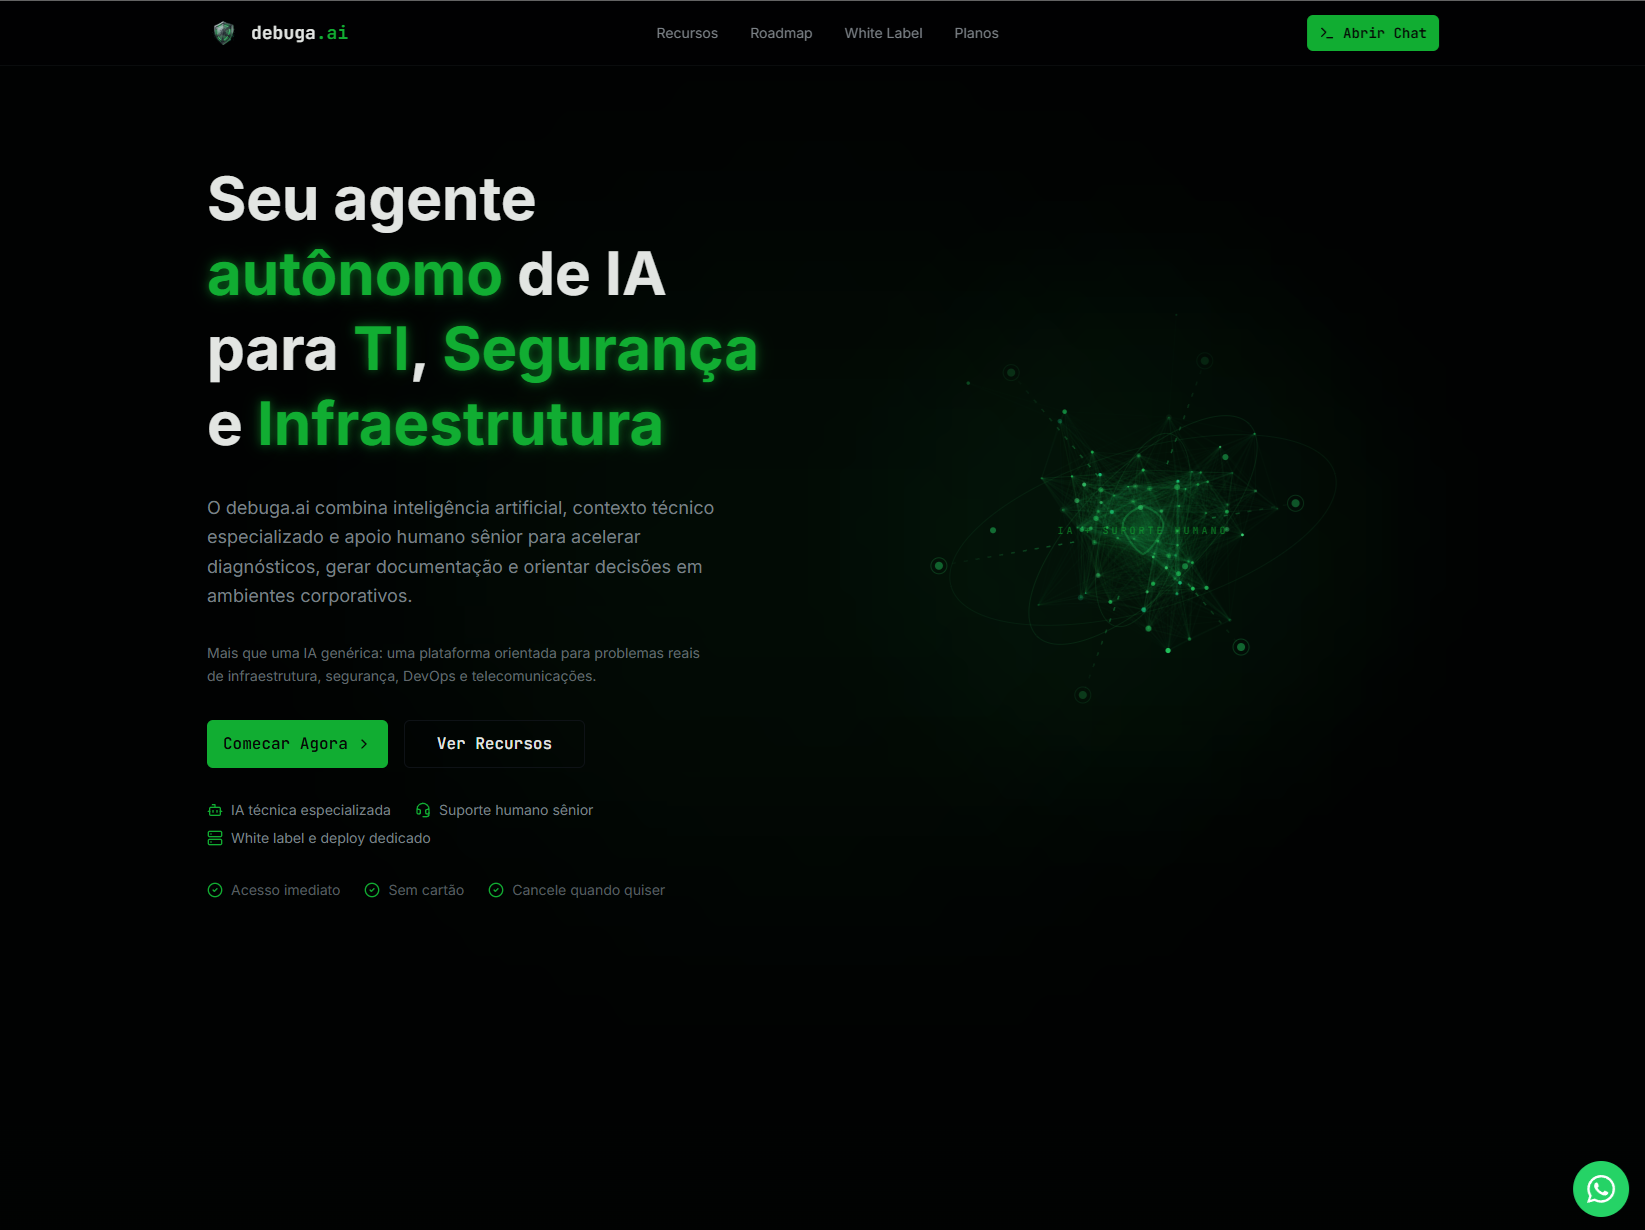
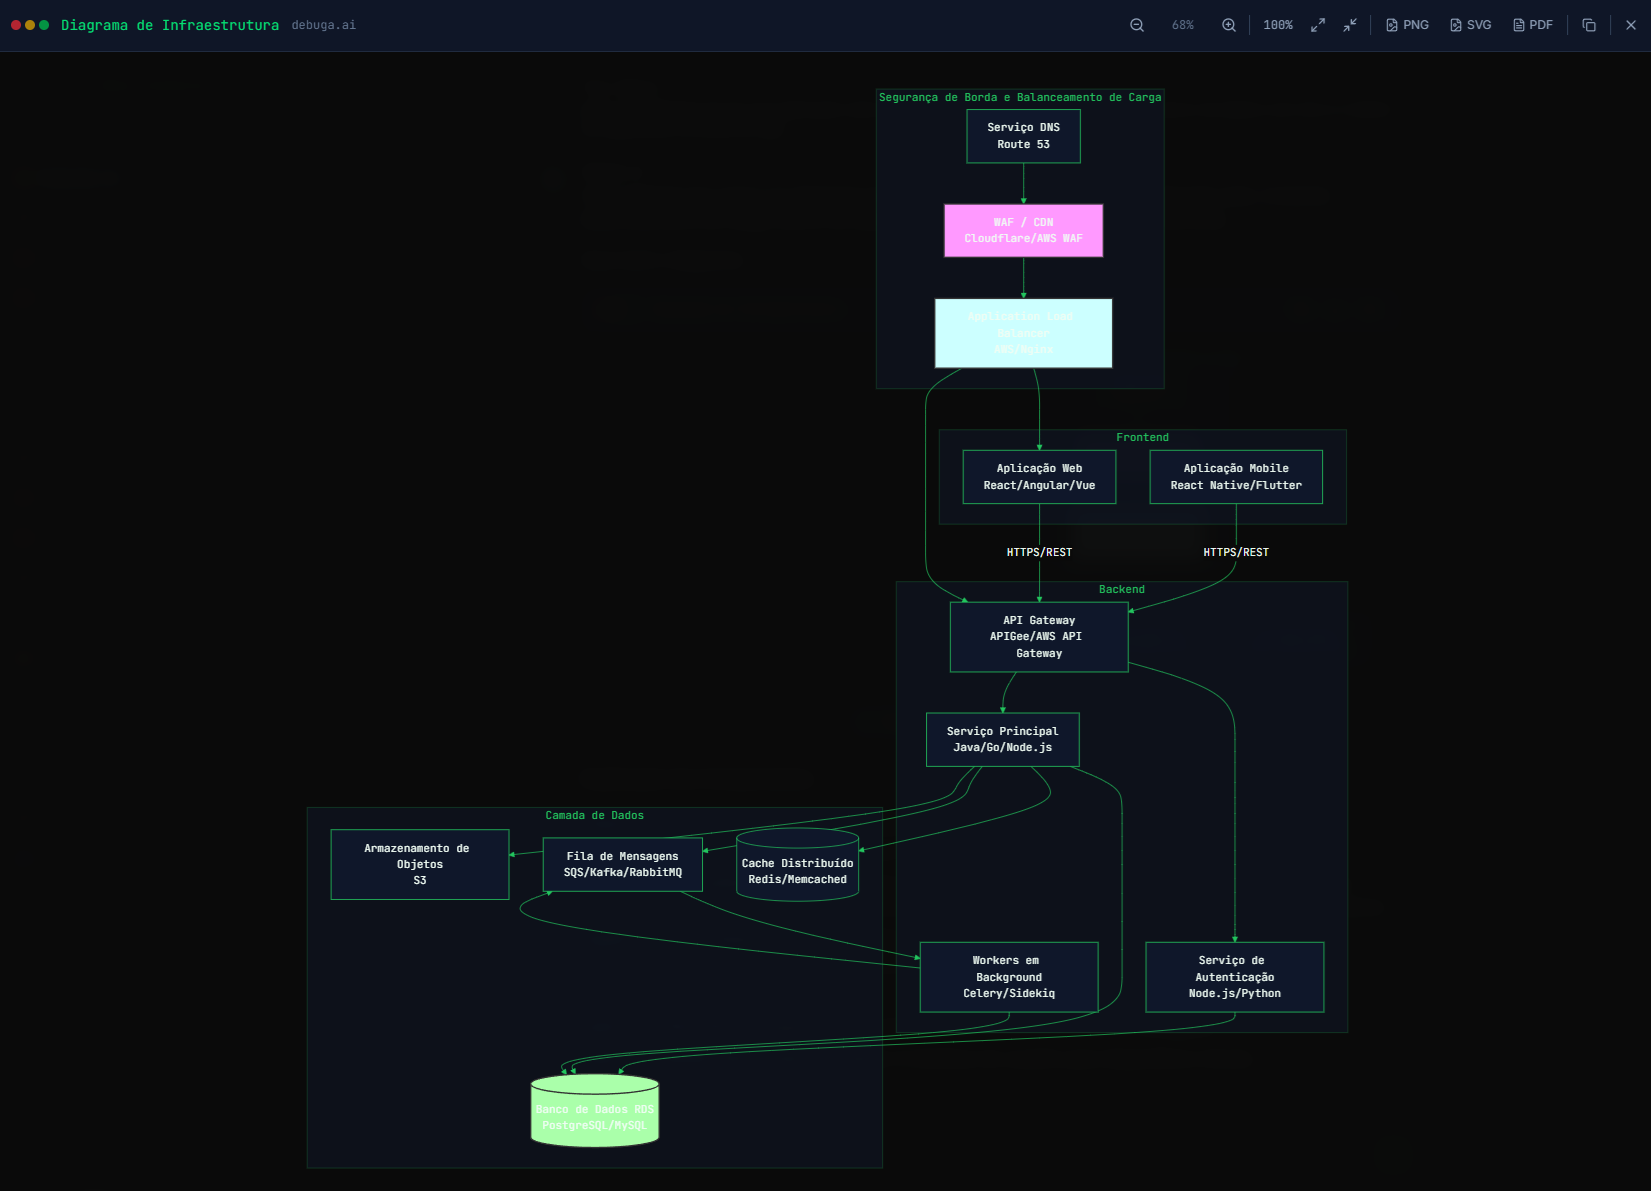
fix(readme): replace landing page screenshot with real diagram + update caption

diff --git a/README.md b/README.md
@@ -61,7 +61,7 @@ graph LR
     <td align="center" width="50%">
       <img src="docs/screenshots/02-chat-diagrama.png" alt="Geração de Diagramas" /><br />
       <strong>Geração de Diagramas</strong><br />
-      <sub>Diagramas Mermaid gerados e renderizados inline a partir de linguagem natural.</sub>
+      <sub>Diagramas de infraestrutura gerados por IA e renderizados com visualização interativa.</sub>
     </td>
   </tr>
   <tr>